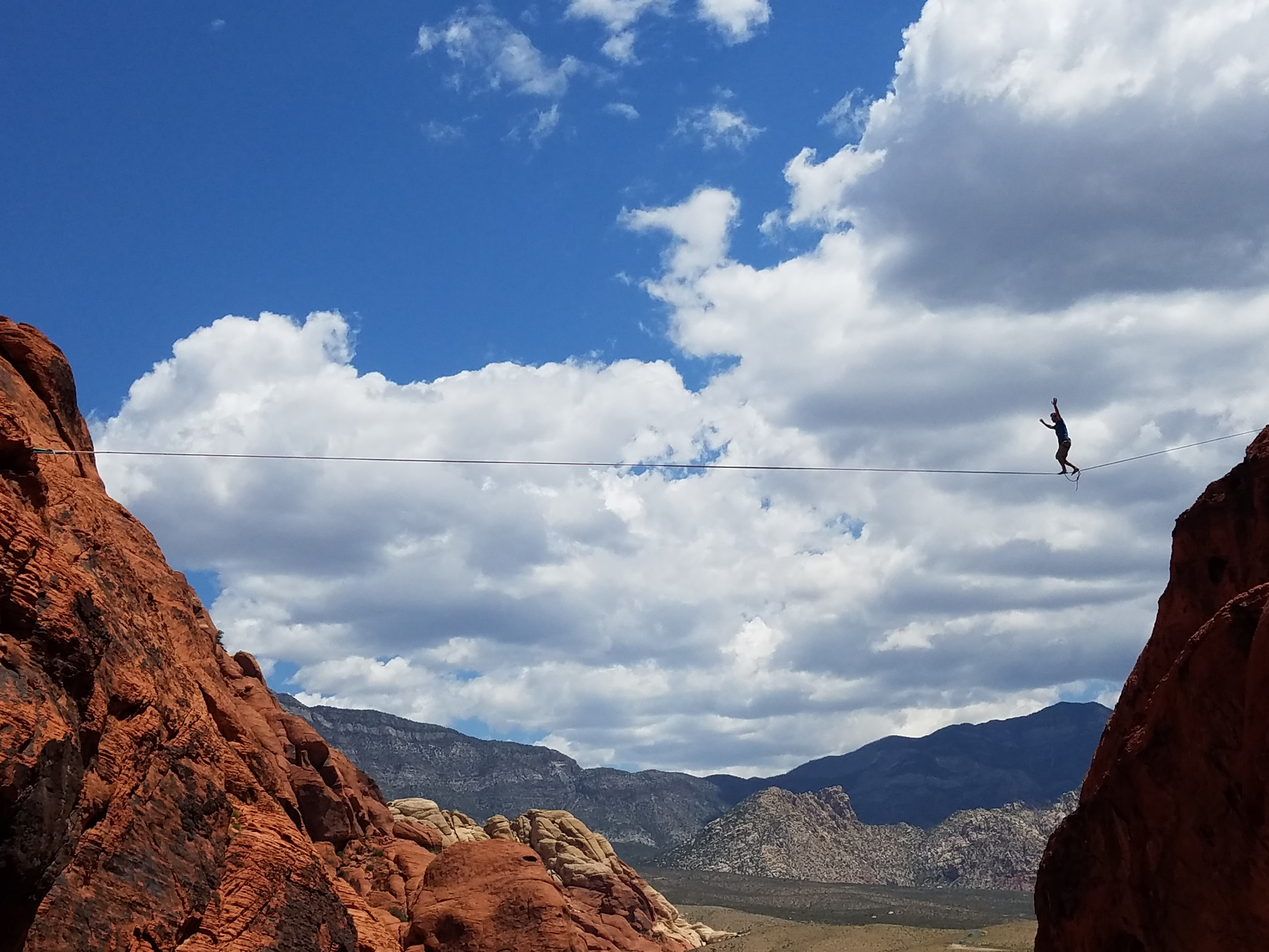
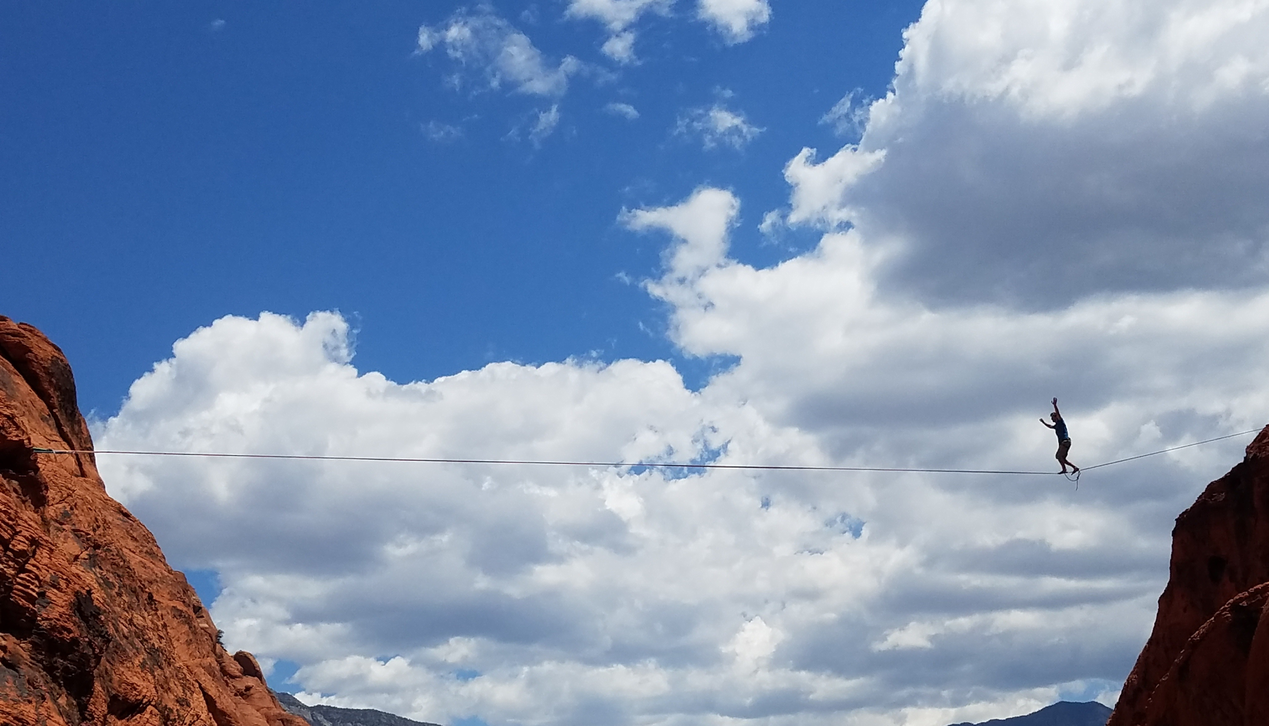
Center feature images

diff --git a/css/index.css b/css/index.css
@@ -155,7 +155,7 @@ html, body {
     background-size: cover;
     width: 100%;
     padding-top: 26.7%;
-    background-position: 0 0;
+    background-position: center;
     background-attachment: fixed;
     background-repeat: no-repeat;
 }
@@ -187,7 +187,7 @@ html, body {
     background-size: cover;
     background-attachment: fixed;
     background-repeat: no-repeat;
-    background-position: 0 0;
+    background-position: center;
     width: 100%;
     padding-top: 30%;
     position: relative;
